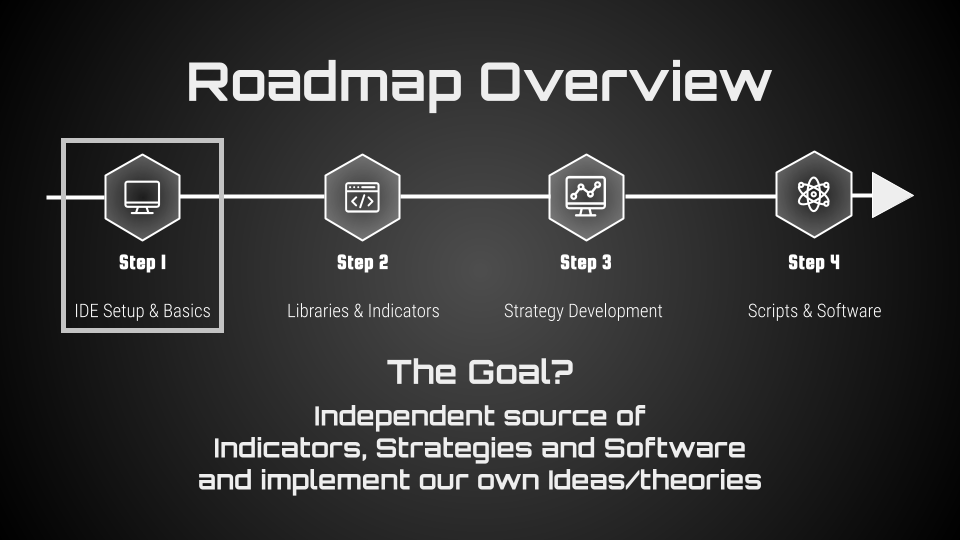
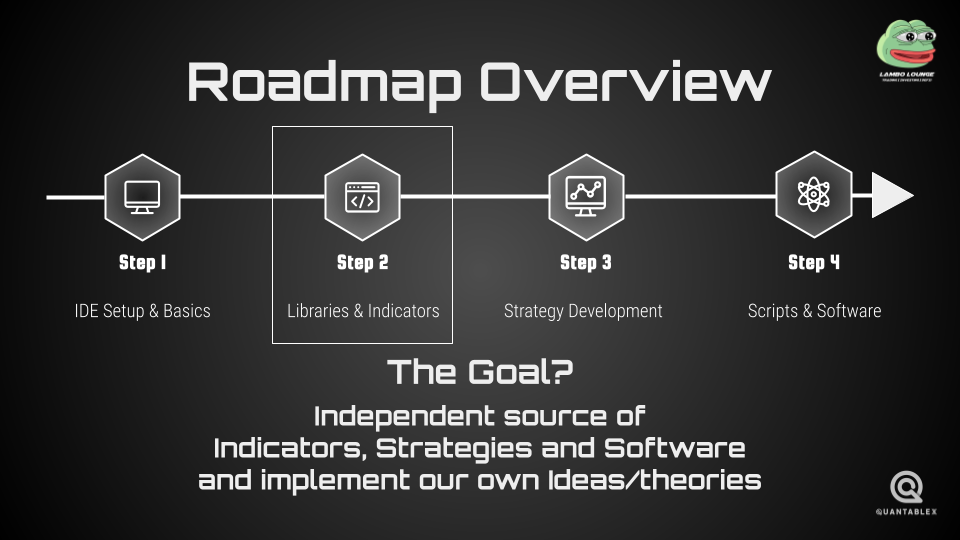
last clean up

Changed region(s): [[0.0625, 0.237, 0.25, 0.6222], [0.9062, 0.0296, 1.0, 0.1778], [0.9062, 0.8593, 0.9688, 0.9778]]

diff --git a/README.md b/README.md
@@ -20,10 +20,31 @@ Lambo Lounge/
 
 ## Folders
 
-| Folder                         | Description                                |
-| ------------------------------ | ------------------------------------------ |
-| `!Documentation`               | Contains project structure docs and guides |
-| `Tools - Scripts and Software` | Helper scripts and external tool links     |
-| `Tradingview - Pinescript`     | All Pine Script code organized by type     |
+| Folder                     | Description                                |
+| -------------------------- | ------------------------------------------ |
+| `!Documentation`           | Contains project structure docs and guides |
+| `Tradingview - Pinescript` | All Pine Script code organized by type     |
+
+# References - Tradingview / Pinescript
+
+This is a collection of references for Tradingview and Pinescript.
+
+## Pine Script Reference
+
+### Pine Script v6
+
+https://www.tradingview.com/pine-script-reference/v6/
+
+### Pine Script v5
+
+https://www.tradingview.com/pine-script-reference/v5/
+
+### Pine Script v4
+
+https://www.tradingview.com/pine-script-reference/v4/
+
+### Pine Script v3
+
+https://www.tradingview.com/pine-script-reference/v3/
 
 More will follow!!!
